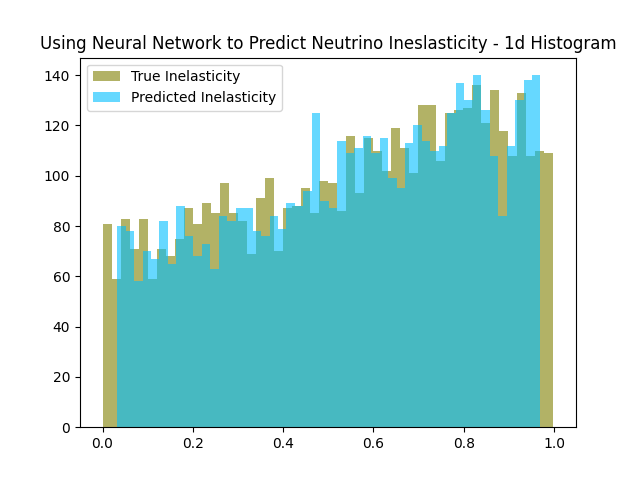
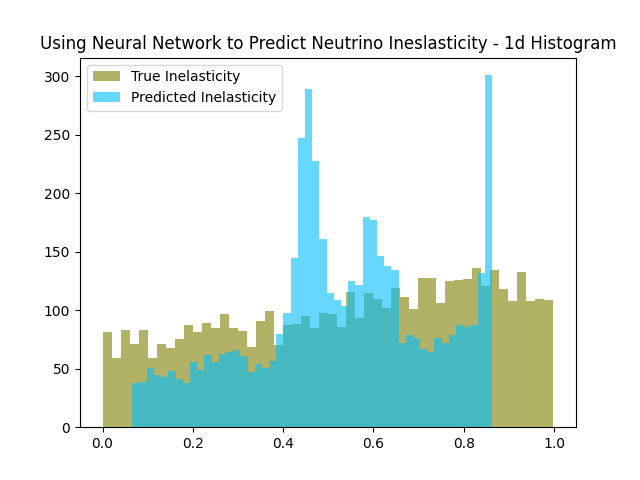
Framework

diff --git a/src/testing.py b/src/testing.py
@@ -1,10 +1,12 @@
 import keras
+import torch
 import numpy as np
 import pandas as pd
 import constants as c
 import tensorflow as tf
 import matplotlib.pyplot as plt
 
+from torch import nn
 from joblib import Memory
 from data_process import *
 from matplotlib.ticker import AutoMinorLocator
@@ -203,7 +205,29 @@ def feature_adding():
 
     return pulse, truth
 
+# TODO fill out this framework
+class NeuralNetwork():
 
+    def __init__(self) -> None:
+        pass
+
+    
+    def build(self):
+        pass
+
+    def train(self):
+        pass
+
+    def test(self):
+        pass
+
+    def eval(self):
+        pass
+
+    def plot(self):
+        pass
+
+# TODO move this into a class with more functionality and readability
 def neural_network(X, y, X_scaler=RobustScaler(), y_scaler=StandardScaler(), scale_x=True, scale_y=False, early=False, save=True, log=False):
 
     if scale_x:
@@ -285,6 +309,28 @@ def neural_network(X, y, X_scaler=RobustScaler(), y_scaler=StandardScaler(), sca
     if save:
         plt.savefig('/home/bread/Documents/projects/neutrino/data/fig/nn_inelasticity_2d.png')
     plt.show()
+
+# TODO: Another option to do following 
+# https://pytorch.org/tutorials/beginner/basics/optimization_tutorial.html
+class NeuralNetwork(nn.Module):
+
+    def __init__(self):
+        super().__init__()
+        self.sigmoid_stack = nn.Sequential(
+            nn.Sigmoid(),
+            nn.Sigmoid()
+        )
+
+    def forward(self, x):
+        logits = self.sigmoid_stack
+        return logits
+
+
+def train_loop(X, y, model, loss_fn):
+    return
+
+def test_loop(X, y, model, loss_fn):
+    return
 
 
 if __name__ == "__main__":

diff --git a/src/learning.py b/src/learning.py
@@ -220,16 +220,12 @@ dim_val = len(X[0])
 model.add(keras.Input(shape=np.shape(X[0])))
 
 # relu, exponential, sigmoid -- options
-model.add(layers.Dense(512, activation='tanh'))
-model.add(layers.Dense(256, activation='tanh'))
-model.add(layers.Dense(128, activation='tanh'))
-# model.add(layers.Dense(128, activation='sigmoid'))
-model.add(layers.Dense(64, activation='tanh'))
-# model.add(layers.Dense(64, activation='sigmoid'))
-model.add(layers.Dense(32, activation='tanh'))
-# model.add(layers.Dense(32, activation='sigmoid'))
-model.add(layers.Dense(16, activation='tanh'))
-model.add(layers.Dense(8, activation='tanh'))
+model.add(layers.Dense(256, activation='sigmoid'))
+model.add(layers.Dense(128, activation='sigmoid'))
+model.add(layers.Dense(64, activation='sigmoid'))
+model.add(layers.Dense(32, activation='sigmoid'))
+model.add(layers.Dense(16, activation='sigmoid'))
+model.add(layers.Dense(8, activation='sigmoid'))
 model.add(layers.Dense(4, activation='sigmoid'))
 model.add(layers.Dense(1, activation='sigmoid'))
 
@@ -239,8 +235,8 @@ history = model.fit(
   X_train, 
   y_train, 
   validation_split=0.30, 
-  epochs=400, 
-  batch_size=512, 
+  epochs=100, 
+  batch_size=256, 
   verbose=2
 ) 
   #callbacks=[early_stop])
